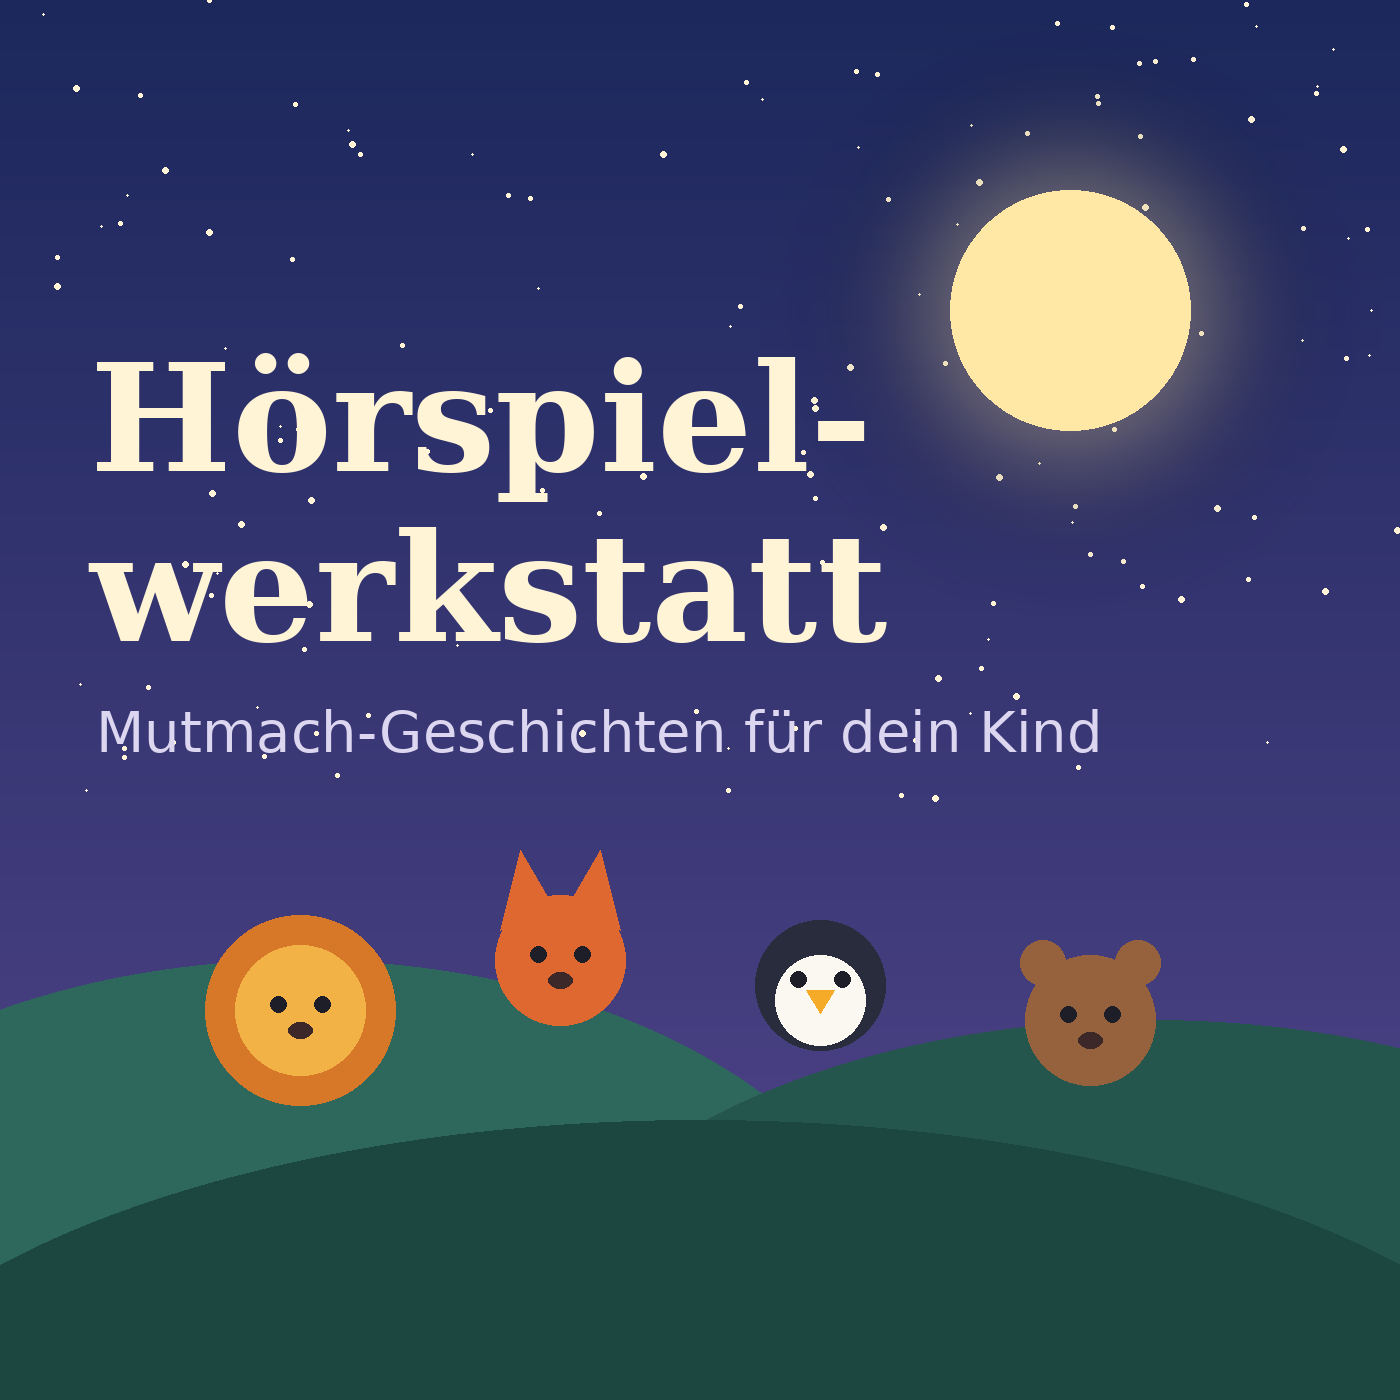
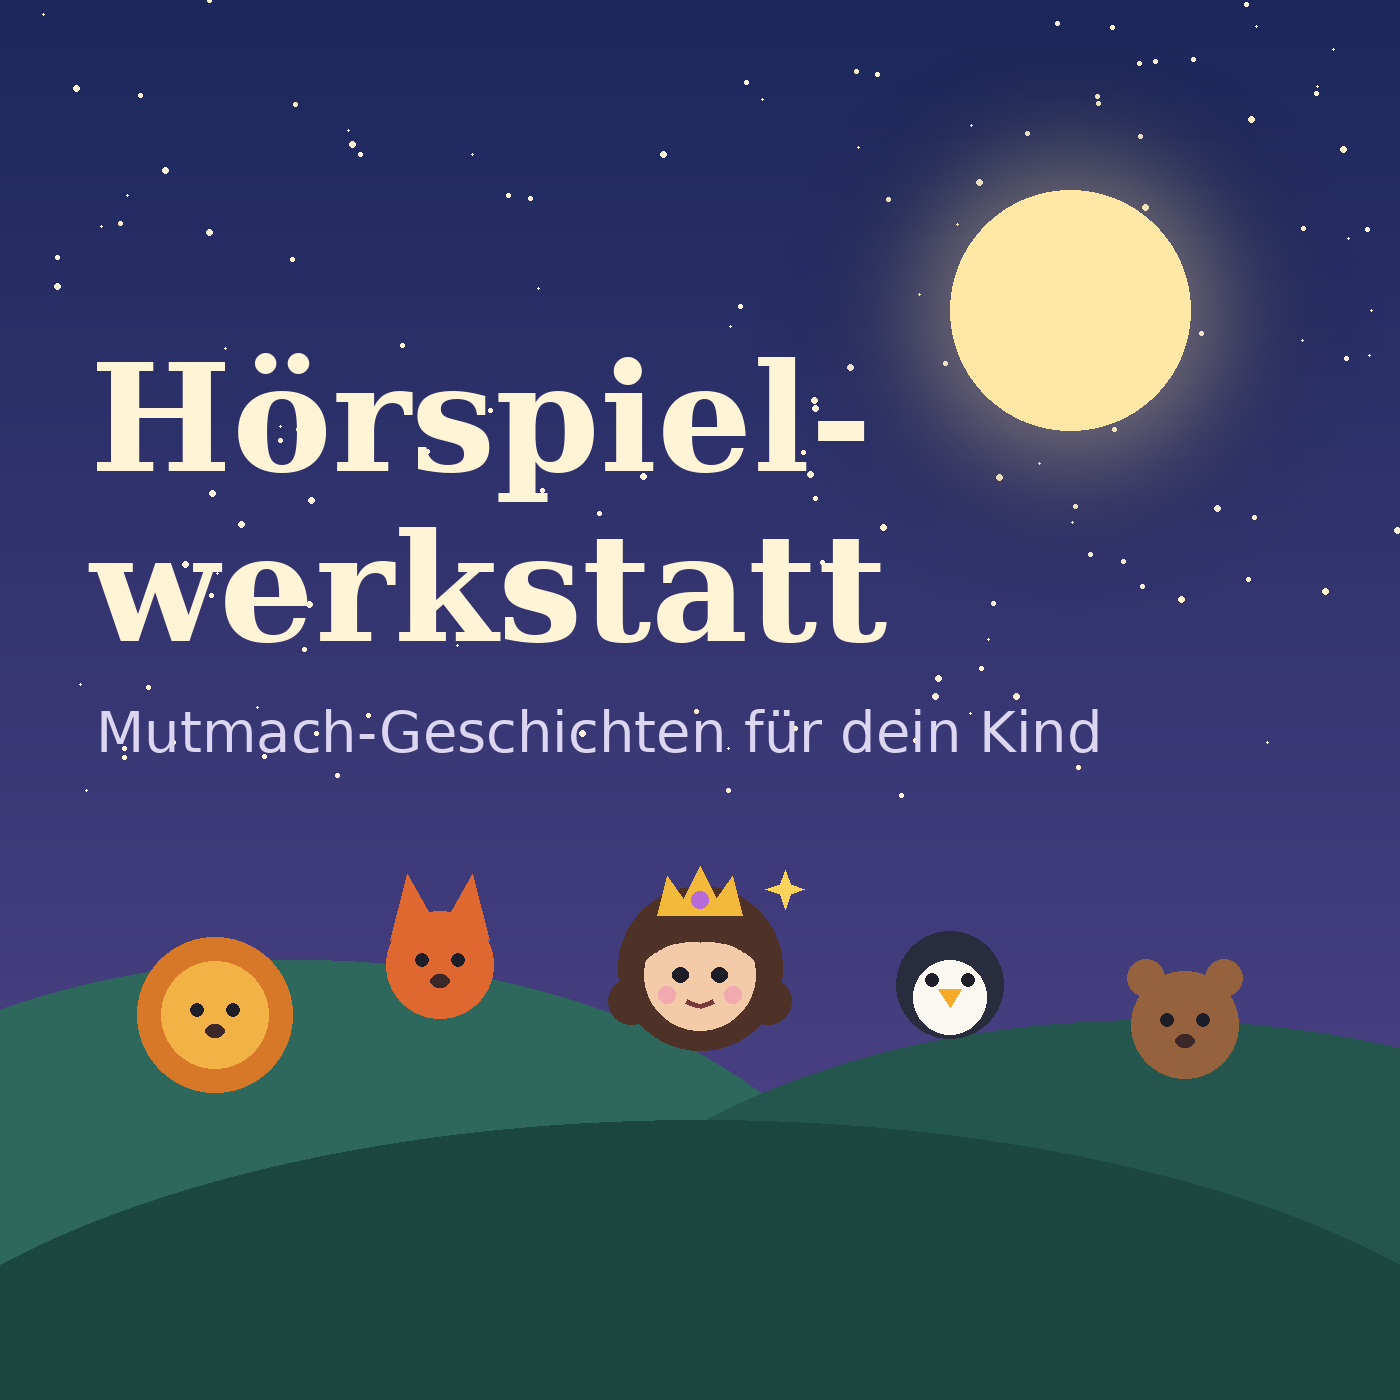
Neue Figur Prinzessin Mira, neues Cover und App-Starter für den Home-Bildschirm
Claude-Session: https://claude.ai/code/session_01VEuky9v7o7uc9znFmGqQuY

Changed region(s): [[0.0921, 0.6143, 0.8907, 0.7986]]

diff --git a/app/index.html b/app/index.html
@@ -1,0 +1,45 @@
+<!doctype html>
+<html lang="de">
+<head>
+<meta charset="utf-8">
+<meta name="viewport" content="width=device-width,initial-scale=1,viewport-fit=cover">
+<meta name="robots" content="noindex">
+<title>Hörspiele</title>
+<meta name="apple-mobile-web-app-title" content="Hörspiele">
+<meta name="apple-mobile-web-app-capable" content="yes">
+<meta name="mobile-web-app-capable" content="yes">
+<meta name="apple-mobile-web-app-status-bar-style" content="black-translucent">
+<meta name="theme-color" content="#1F2A5E">
+<link rel="apple-touch-icon" href="apple-touch-icon.png">
+<link rel="icon" type="image/png" href="icon-192.png">
+<link rel="manifest" href="manifest.webmanifest">
+<style>
+  :root{--night:#1F2A5E;--ink:#FFF4D6;--soft:#C9C3EA;--moon:#E8A93A}
+  *{box-sizing:border-box}
+  html,body{height:100%;margin:0}
+  body{background:linear-gradient(#1C285C,#54468C);color:var(--ink);font:17px/1.5 -apple-system,BlinkMacSystemFont,"Segoe UI",sans-serif;
+       display:flex;flex-direction:column;align-items:center;justify-content:center;gap:18px;text-align:center;
+       padding:calc(24px + env(safe-area-inset-top)) 24px calc(24px + env(safe-area-inset-bottom))}
+  img{width:120px;height:120px;border-radius:27px;box-shadow:0 10px 40px rgba(0,0,0,.35)}
+  h1{font:800 30px/1.1 Georgia,serif;margin:0}
+  p{margin:0;color:var(--soft);max-width:30ch}
+  a.go{display:inline-block;background:var(--moon);color:#1D2148;font-weight:700;text-decoration:none;padding:14px 26px;border-radius:999px}
+  a.go:focus-visible{outline:3px solid var(--ink);outline-offset:3px}
+  .small{font-size:14px}
+</style>
+</head>
+<body>
+  <img src="icon-512.png" alt="">
+  <h1>Hörspielwerkstatt</h1>
+  <p id="msg">Öffne die Werkstatt …</p>
+  <a class="go" id="go" href="https://claude.ai/artifact/GYXNEj1W3yTW4HpMsKbnzs">Werkstatt öffnen</a>
+  <p class="small">Beim ersten Mal meldest du dich bei Claude an. Danach öffnet sich deine Werkstatt direkt.</p>
+<script>
+  // Startet die Werkstatt automatisch, wenn die App vom Home-Bildschirm geöffnet wird.
+  var url = document.getElementById("go").href;
+  var standalone = window.navigator.standalone === true || window.matchMedia("(display-mode: standalone)").matches;
+  if (standalone) { setTimeout(function(){ location.replace(url); }, 400); }
+  else { document.getElementById("msg").textContent = "Lege diese Seite in Safari über Teilen → „Zum Home-Bildschirm“ als App ab."; }
+</script>
+</body>
+</html>

diff --git a/scripts/build.py b/scripts/build.py
@@ -64,6 +64,7 @@ ROLE_VOICES = {
     "FINN": "IKne3meq5aSn9XLyUdCD",       # jung, quirlig
     "PIP": "FGY2WhTYpPnrIDTdsKH5",        # neugierig, ein bisschen schüchtern
     "BRUNO": "bIHbv24MWmeRgasZH58o",      # freundlich, gemütlich
+    "MIRA": "pFZP5JQG7iQjIQuC4Bze",       # kleine Prinzessin und Zauberin, hell und warm
     "MAMA": "EXAVITQu4vr4xnSDxMaL",
     "PAPA": "iP95p4xoKVk53GoZ742B",
     "OMA": "XrExE9yKIg1WjnnlVkGX",
@@ -122,7 +123,7 @@ SHOWS = [
         out=SITE / "hoerspiele",
         base=f"{BASE_URL}/hoerspiele",
         title=os.environ.get("HOERSPIEL_TITLE", "Hörspielwerkstatt"),
-        description=("Persönliche Mutmach-Hörspiele für Kinder: Lotta, Finn, Pip und Bruno erleben "
+        description=("Persönliche Mutmach-Hörspiele für Kinder: Lotta, Finn, Pip, Bruno und Prinzessin Mira erleben "
                      "Kita-Start, Schwimmkurs, Abschiede und große Gefühle."),
         cover="cover-hoerspiele.png",
         tag_prefix="hs-",
@@ -493,6 +494,9 @@ def main() -> int:
     redo = set(os.environ.get("REDO", "").split())
     for show in SHOWS:
         run_show(show, work, redo)
+    app = ROOT / "app"   # App-Starter für den Home-Bildschirm
+    if app.is_dir():
+        shutil.copytree(app, SITE / "app", dirs_exist_ok=True)
     return 0
 
 

diff --git a/README.md b/README.md
@@ -60,7 +60,7 @@ Im Ordner `hoerspiele/` landen persönliche Kinder-Hörspiele aus der Eltern-App
 
 In Apple Podcasts: Mediathek → „…“ → **Sendung per URL folgen** und diese Adresse einfügen.
 
-**Rollen und Stimmen.** Jede Zeile beginnt mit einer Rolle: `ERZÄHLER`, die vier Hauptfiguren `LOTTA` (Löwin), `FINN` (Fuchs), `PIP` (Pinguin), `BRUNO` (Bär), dazu `MAMA`, `PAPA`, `OMA`, `OPA`, `FRAU` und `MANN` (weitere Erwachsene) und `KIND` (andere Kinder). Zeilen mit `GERÄUSCH:` und einer kurzen englischen Beschreibung werden zu einem Soundeffekt (höchstens sechs pro Folge).
+**Rollen und Stimmen.** Jede Zeile beginnt mit einer Rolle: `ERZÄHLER`, die vier Hauptfiguren `LOTTA` (Löwin), `FINN` (Fuchs), `PIP` (Pinguin), `BRUNO` (Bär), `MIRA` (kleine Prinzessin und Zauberin), dazu `MAMA`, `PAPA`, `OMA`, `OPA`, `FRAU` und `MANN` (weitere Erwachsene) und `KIND` (andere Kinder). Zeilen mit `GERÄUSCH:` und einer kurzen englischen Beschreibung werden zu einem Soundeffekt (höchstens sechs pro Folge).
 
 **Stimmen tauschen** (empfohlen, z. B. echte Kinderstimmen aus der ElevenLabs-Stimmbibliothek): Settings → Secrets and variables → Actions → Variables → `HOERSPIEL_VOICES` mit JSON, z. B. `{"LOTTA": "<voice-id>", "PIP": "<voice-id>"}`. Nicht genannte Rollen behalten ihre Standardstimme.
 
